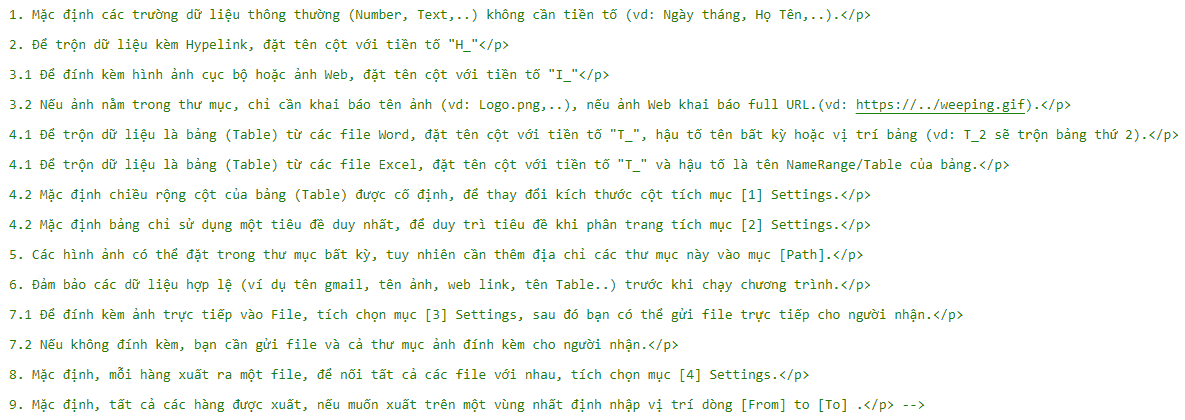
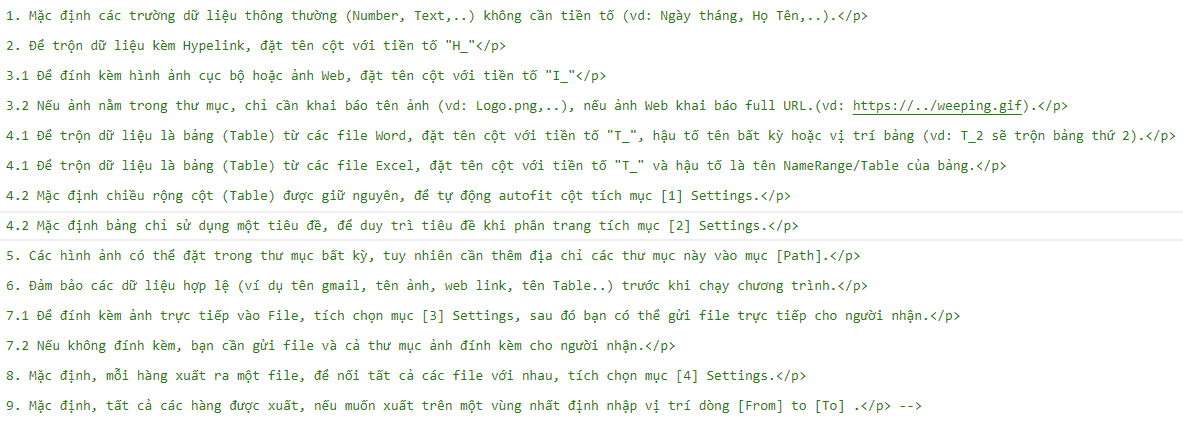
ok

diff --git a/r.mailmerge.html b/r.mailmerge.html
@@ -54,8 +54,8 @@
         <p>&nbsp;   3.2 Nếu ảnh nằm trong thư mục, chỉ cần khai báo tên ảnh (vd: Logo.png,..), nếu ảnh Web khai báo full URL.(vd: https://../weeping.gif).</p>
         <p>&nbsp;   4.1 Để trộn dữ liệu là bảng (Table) từ các file Word, đặt tên cột với tiền tố "T_", hậu tố tên bất kỳ hoặc vị trí bảng (vd: T_2 sẽ trộn bảng thứ 2).</p>
         <p>&nbsp;   4.1 Để trộn dữ liệu là bảng (Table) từ các file Excel, đặt tên cột với tiền tố "T_" và hậu tố là tên NameRange/Table của bảng.</p>
-        <p>&nbsp;   4.2 Mặc định chiều rộng cột của bảng (Table) được cố định, để thay đổi kích thước cột tích mục [1] Settings.</p> 
-        <p>&nbsp;   4.2 Mặc định bảng chỉ sử dụng một tiêu đề duy nhất, để duy trì tiêu đề khi phân trang tích mục [2] Settings.</p> 
+        <p>&nbsp;   4.2 Mặc định chiều rộng cột (Table) được giữ nguyên, để tự động autofit cột tích mục [1] Settings.</p> 
+        <p>&nbsp;   4.2 Mặc định bảng chỉ sử dụng một tiêu đề, để duy trì tiêu đề khi phân trang tích mục [2] Settings.</p> 
         <p>&nbsp;   5. Các hình ảnh có thể đặt trong thư mục bất kỳ, tuy nhiên cần thêm địa chỉ các thư mục này vào mục [Path].</p>
         <p>&nbsp;   6. Đảm bảo các dữ liệu hợp lệ (ví dụ tên gmail, tên ảnh, web link, tên Table..) trước khi chạy chương trình.</p>
         <p>&nbsp;   7.1 Để đính kèm ảnh trực tiếp vào File, tích chọn mục [3] Settings, sau đó bạn có thể gửi file trực tiếp cho người nhận.</p>
